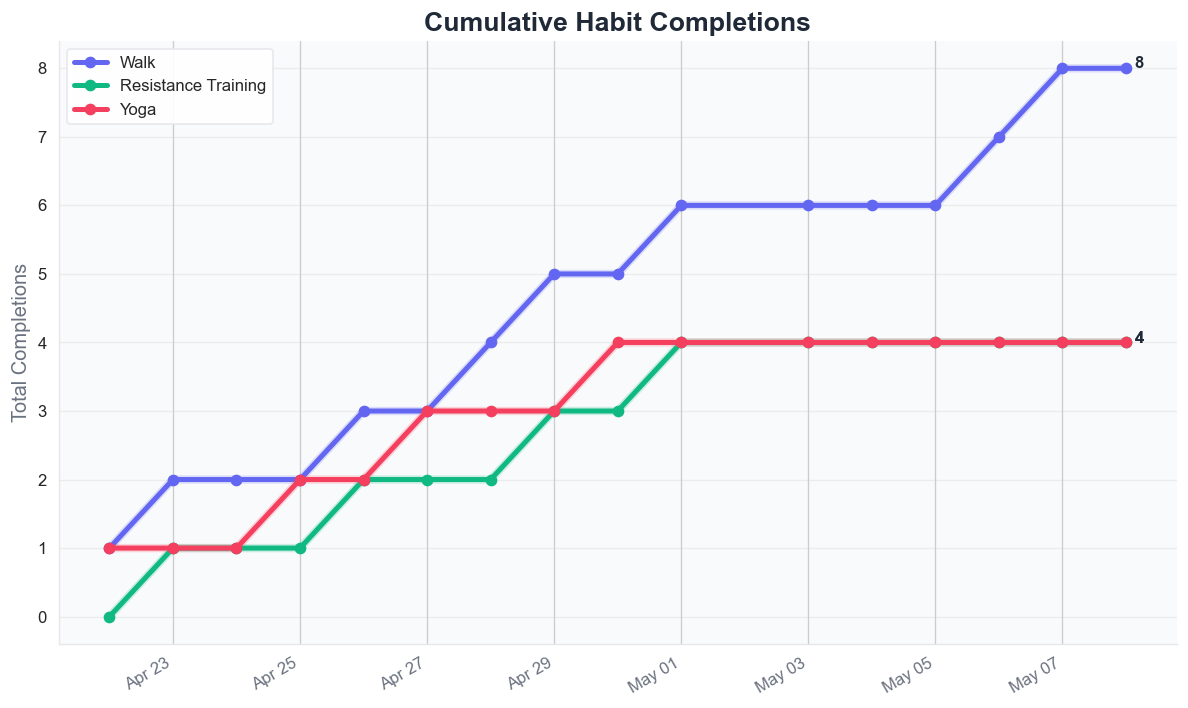
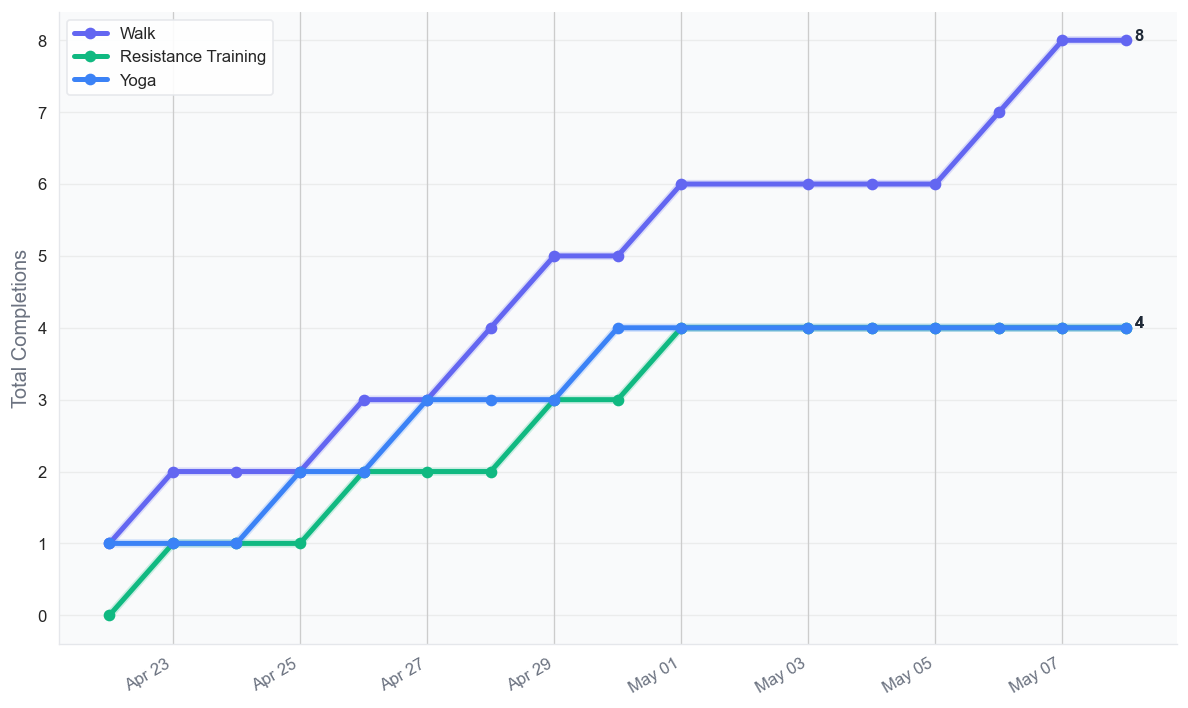
chart styling updates

diff --git a/templates/index.html b/templates/index.html
@@ -114,13 +114,12 @@
         }
         
         .habit-rate {
-            background-color: var(--primary-light);
+            background-color: var(--card-bg);
             padding: 1.25rem;
             border-radius: var(--border-radius);
             box-shadow: var(--shadow);
-            transition: all 0.3s ease;
+            transition: transform 0.2s ease;
             position: relative;
-            overflow: hidden;
             flex: 1;
             min-width: 250px;
         }
@@ -130,26 +129,18 @@
             box-shadow: 0 10px 15px -3px rgba(0, 0, 0, 0.1), 0 4px 6px -2px rgba(0, 0, 0, 0.05);
         }
         
-        .habit-rate::before {
-            content: '';
-            position: absolute;
-            top: 0;
-            left: 0;
-            width: 4px;
-            height: 100%;
-            background: linear-gradient(to bottom, var(--primary-color), var(--secondary-color));
-        }
-        
         .habit-name {
             font-weight: 600;
-            margin-bottom: 0.5rem;
             font-size: 1.1rem;
+            margin-bottom: 1rem;
             color: var(--primary-color);
+            border-bottom: 1px solid var(--primary-light);
+            padding-bottom: 0.5rem;
         }
         
         .visuals-section {
             display: grid;
-            grid-template-columns: repeat(auto-fit, minmax(450px, 1fr));
+            grid-template-columns: 1fr;
             gap: 2rem;
             margin-top: 2.5rem;
         }
@@ -258,20 +249,24 @@
         }
     /* Chart styling */
         .visual-title {
-            font-size: 1.2rem;
-            margin-bottom: 1rem;
+            font-size: 1.5rem;
+            margin-bottom: 1.5rem;
             color: var(--primary-color);
             border-bottom: 2px solid var(--primary-light);
             padding-bottom: 0.5rem;
             position: relative;
+            text-align: center;
         }
         
         .chart-container {
             background: linear-gradient(145deg, #ffffff, #f9fafc);
-            padding: 1rem;
+            padding: 1.5rem;
             border-radius: 8px;
             margin-top: 0.5rem;
             position: relative;
+            max-width: 1000px;
+            margin-left: auto;
+            margin-right: auto;
         }
         
         .chart-container::after {
@@ -633,19 +628,11 @@
             {% if summary_stats.detailed_stats.consistency.most_consistent %}
             <div class="consistency-summary">
                 <div class="consistency-highlight">
-                    <span class="highlight-label tooltip">Most Predictable Habit
-                <div class="tooltip-content">
-                    This habit has the most consistent pattern of yes/no entries, meaning you rarely switch between doing and not doing it (even if you don't do it very often).
-                </div>
-            </span>
+                    <span class="highlight-label">Most Predictable Habit</span>
                     <span class="highlight-value">{{ summary_stats.detailed_stats.consistency.most_consistent }}</span>
                 </div>
                 <div class="consistency-highlight">
-                    <span class="highlight-label tooltip">Least Predictable Habit
-                <div class="tooltip-content">
-                    This habit has the most variable pattern of yes/no entries, with frequent switches between doing and not doing it (even if it has a high completion rate overall).
-                </div>
-            </span>
+                    <span class="highlight-label">Least Predictable Habit</span>
                     <span class="highlight-value">{{ summary_stats.detailed_stats.consistency.least_consistent }}</span>
                 </div>
             </div>
@@ -656,11 +643,7 @@
                     <div class="metric-header">{{ habit }}</div>
                     <div class="consistency-score">
                         <span class="score-value">{{ score }}%</span>
-                        <span class="score-label tooltip">Predictability Score
-                <div class="tooltip-content">
-                    Calculated as 100% minus the percentage of days where you switched from doing to not doing this habit (or vice versa). Higher scores indicate more predictable patterns.
-                </div>
-            </span>
+                        <span class="score-label">Predictability Score</span>
                     </div>
                     <div class="progress-bar">
                         <div class="progress" style="width: '{{ score }}%';" data-value="{{ score }}"></div>

diff --git a/src/analyzer.py b/src/analyzer.py
@@ -144,7 +144,7 @@ def plot_completion_rates(df, save_path=None):
     # Create a custom color palette that matches our UI - same as in plot_habit_trends
     primary_color = "#6366F1"  # Indigo/purple (matches --primary-color)
     secondary_color = "#10B981"  # Teal/green (matches --secondary-color)
-    tertiary_color = "#F43F5E"  # Rose/pink
+    tertiary_color = "#3B82F6"  # Blue that complements the primary color
     
     # Create a fixed color map to ensure consistency across charts
     habit_colors = {
@@ -181,8 +181,8 @@ def plot_completion_rates(df, save_path=None):
             fontweight='bold'
         )
     
-    # Style the title and labels to match our UI
-    plt.title("Habit Completion Rates", fontsize=16, fontweight='bold', color='#1F2937')
+    # Style the labels to match our UI - title removed as requested
+    plt.title("")  # Empty title as it's shown in the section header
     plt.ylabel("Completion (%)", fontsize=12, color='#6B7280')  # Match text color (--text-secondary)
     plt.xlabel("", fontsize=0)  # Remove x-axis label
     
@@ -244,7 +244,7 @@ def plot_habit_trends(df, save_path=None):
     # Create a custom color palette that matches our UI - same as in plot_completion_rates
     primary_color = "#6366F1"  # Indigo/purple (matches --primary-color)
     secondary_color = "#10B981"  # Teal/green (matches --secondary-color)
-    tertiary_color = "#F43F5E"  # Rose/pink
+    tertiary_color = "#3B82F6"  # Blue that complements the primary color
     
     # Create a fixed color map to ensure consistency across charts
     habit_colors = {
@@ -298,8 +298,8 @@ def plot_habit_trends(df, save_path=None):
             fontsize=10
         )
     
-    # Style the title and labels
-    plt.title("Cumulative Habit Completions", fontsize=16, fontweight='bold', color='#1F2937')
+    # Style the labels - title removed as requested
+    plt.title("")  # Empty title as it's shown in the section header
     plt.ylabel("Total Completions", fontsize=12, color='#6B7280')
     plt.xlabel("", fontsize=0)  # Remove x-axis label
     
